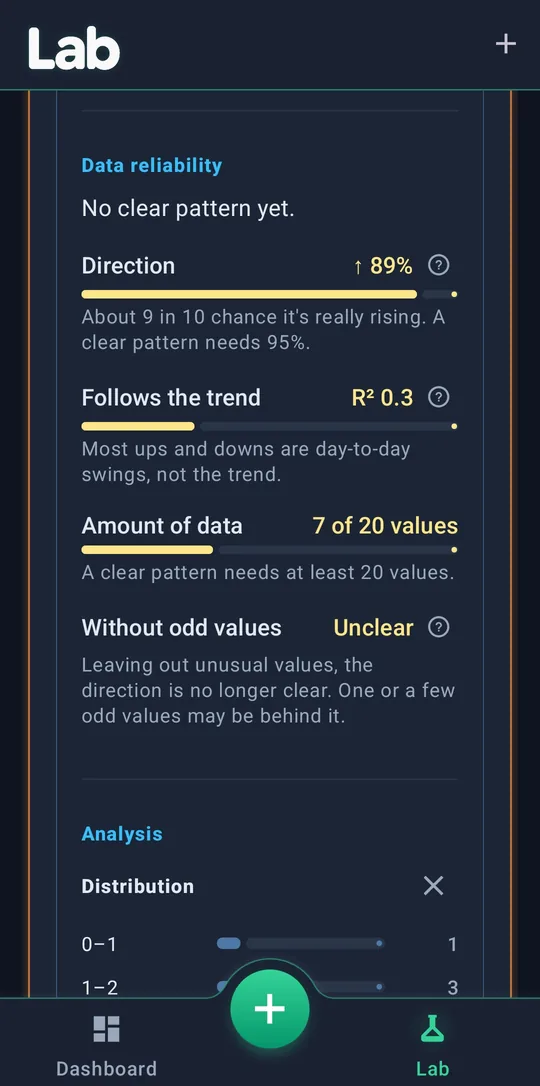
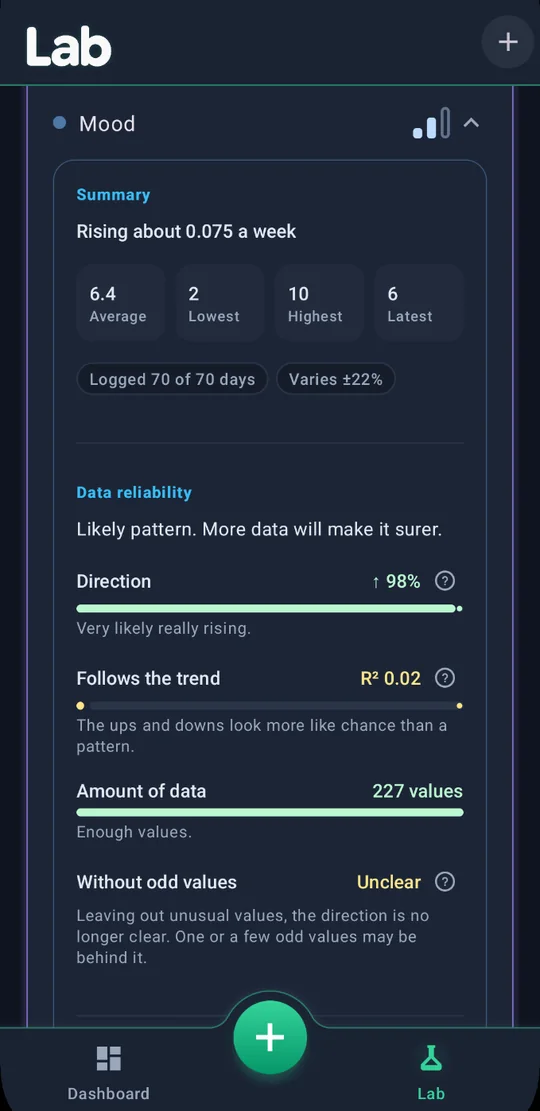
fix screen shots

diff --git a/index.html b/index.html
@@ -31,18 +31,17 @@
 
     <!-- 1. Hero: the differentiator first -->
     <section class="hero">
+      <img class="icon" src="images/icon-512.png" alt="" width="104" height="104">
       <img class="wordmark light" src="images/wordmark-light.png" alt="ArbiTracker" width="700" height="101">
       <img class="wordmark dark" src="images/wordmark-dark.png" alt="ArbiTracker" width="700" height="101">
 
       <h1>Track anything.<br><span class="accent">Compare everything.</span></h1>
 
-      <p class="rotator">Like <span class="example" id="example">'sleep'</span></p>
-
       <p class="purpose"><strong>Free.</strong> No agenda. No account. No servers.</p>
 
       <div class="buttons">
-        <!-- Until launch: the Play line is a label, the button asks to be told. Swap for the Play badge/link on launch day. -->
-        <a class="button play" href="mailto:contact@arbitracker.app?subject=Tell%20me%20when%20ArbiTracker%20is%20out">Tell me when it's out</a>
+        <!-- Until launch: no Play button, only the label below. On launch day add the Google Play badge/link here. -->
+        <a class="button play" href="#demo">Try it here ↓</a>
         <a class="button guide" href="guide.html">Read the guide →</a>
       </div>
       <p class="soon">Coming soon to Google Play</p>
@@ -84,7 +83,7 @@
     </section>
 
     <!-- 3. The demo: setting up a measurement is the thing to grasp. Drawn like the app (script.js). -->
-    <section>
+    <section id="demo">
       <h2 class="section-title">Set up anything in a minute</h2>
       <p class="section-lead">List what you write down each time. The app makes the form. Try it.</p>
 
@@ -144,8 +143,8 @@
           </ul>
 
           <div class="shots two">
-            <img class="shot" src="images/record.webp" alt="Entering an observation: pick the question type, flip Correct, save" width="540" height="1086" loading="lazy">
-            <img class="shot" src="images/group.webp" alt="Group mode: every exercise of 'Weightlifting' on one screen, each with its own entry card" width="540" height="1086" loading="lazy">
+            <img class="shot" src="images/record.webp" alt="Entering an observation: tap a mood from 1 to 10, pick where you are, save" width="540" height="1111" loading="lazy">
+            <img class="shot" src="images/group.webp" alt="Group mode: every plant in 'Houseplants' on one screen, each with its own entry card" width="540" height="1111" loading="lazy">
           </div>
 
           <details class="more">
@@ -169,8 +168,8 @@
           </ul>
 
           <div class="shots two">
-            <img class="shot" src="images/lab-chart.webp" alt="A Lab card: a bar chart per weekday" width="540" height="1086" loading="lazy">
-            <img class="shot" src="images/lab-reliability.webp" alt="Data reliability: direction, trend, amount of data and odd values, each with a plain explanation" width="540" height="1086" loading="lazy">
+            <img class="shot" src="images/lab-chart.webp" alt="A Lab card: correct and wrong answers per trivia subject" width="540" height="1111" loading="lazy">
+            <img class="shot" src="images/lab-reliability.webp" alt="Data reliability: direction, trend, amount of data and odd values, each with a plain explanation" width="540" height="1111" loading="lazy">
           </div>
 
           <details class="more">
@@ -202,14 +201,14 @@
           <div class="emoji">📌</div>
           <h3>Your dashboard</h3>
           <p>Pin whatever has your interest right now: things you track and charts.</p>
-          <img class="shot small" src="images/dashboard.webp" alt="The dashboard with a pinned chart and nodes" width="540" height="1086" loading="lazy">
+          <img class="shot small" src="images/dashboard.webp" alt="The dashboard in light mode with goals and nodes" width="540" height="1111" loading="lazy">
         </div>
 
         <div class="card">
           <div class="emoji">🎯</div>
           <h3>Goals</h3>
           <p>Aim for '8 hours of sleep', or simply better than usual.</p>
-          <img class="shot small" src="images/goals.webp" alt="Goals on the dashboard with progress rings and a streak" width="540" height="1086" loading="lazy">
+          <img class="shot small" src="images/goals.webp" alt="Goals on the dashboard: progress rings and a 10-week streak" width="540" height="1111" loading="lazy">
         </div>
 
         <div class="card">
@@ -240,7 +239,7 @@
 
     <!-- 7. Closing -->
     <section class="closing">
-      <h2>What will you track?</h2>
+      <h2>What will you arbitrack?</h2>
 
       <div class="examples">
         <span>'sleep'</span>
@@ -254,16 +253,50 @@
       </div>
 
       <div class="buttons" style="margin-top: 26px">
-        <a class="button play" href="mailto:contact@arbitracker.app?subject=Tell%20me%20when%20ArbiTracker%20is%20out">Tell me when it's out</a>
         <a class="button guide" href="guide.html">Read the guide →</a>
       </div>
+      <p class="soon">Coming soon to Google Play</p>
+    </section>
+
+    <!-- 7b. The future: ideas, not promises -->
+    <section class="future">
+      <h2 class="section-title">What the future might bring</h2>
+      <p class="section-lead">Ideas on the drawing board. You decide which come first.</p>
+
+      <div class="extras">
+        <div class="card">
+          <div class="emoji">🌳</div>
+          <h3>Tracking hub</h3>
+          <p>Share your setup with others, and start from theirs: 'chess openings', 'sourdough lab', 'birding year'.</p>
+        </div>
+
+        <div class="card">
+          <div class="emoji">🔭</div>
+          <h3>Community findings</h3>
+          <p>Show off what you discovered, and see what others found in theirs.</p>
+        </div>
+
+        <div class="card">
+          <div class="emoji">🧪</div>
+          <h3>Your own experiments</h3>
+          <p>Test an idea properly: the app plans the on and off days and tells you if it worked.</p>
+        </div>
+
+        <div class="card">
+          <div class="emoji">✨</div>
+          <h3>Automatic insights</h3>
+          <p>The app finds the strongest patterns for you, only when they hold up.</p>
+        </div>
+      </div>
+
+      <p class="future-note">Sharing will always be your choice: nothing leaves your phone unless you send it.</p>
     </section>
 
     <!-- 8. Contact: send ideas and use cases -->
     <section class="contact" id="contact">
       <div class="contact-card">
         <div class="contact-emoji">💌</div>
-        <h2>I want to hear from you</h2>
+        <h2>Help shape what comes next</h2>
         <p>ArbiTracker is built by one person, and it grows from the people who use it. What do you track? What did you discover? What should the app do next? Every idea, use case and wild wish is welcome, and I read every mail.</p>
 
         <a class="button play" href="mailto:contact@arbitracker.app?subject=My%20ArbiTracker%20idea">Share your idea</a>

diff --git a/script.js b/script.js
@@ -1,35 +1,7 @@
-// ArbiTracker site: the rotating example, the app demo, screenshots and the idea button.
+// ArbiTracker site: the compare teaser, the app demo, screenshots and the idea button.
 // Own code only: no outside scripts, no tracking (see privacy.html).
 
 const reduceMotion = window.matchMedia("(prefers-reduced-motion: reduce)").matches;
-
-// ---------- Rotating example in the hero ----------
-const examples = [
-  "'sleep'",
-  "'bird sightings'",
-  "'mood at random moments'",
-  "'every time the neighbour's cat visits'",
-  "'guitar practice'",
-  "'sourdough rise'",
-  "'visits to grandma'",
-  "'trivial pursuit answers'"
-];
-
-const exampleEl = document.getElementById("example");
-
-if (exampleEl && !reduceMotion) {
-  let index = 0;
-
-  setInterval(() => {
-    exampleEl.classList.add("out");
-
-    setTimeout(() => {
-      index = (index + 1) % examples.length;
-      exampleEl.textContent = examples[index];
-      exampleEl.classList.remove("out");
-    }, 400);
-  }, 4000);
-}
 
 // ---------- Compare teaser: funny pairs ----------
 const pairs = [

diff --git a/style.css b/style.css
@@ -179,7 +179,7 @@ h2.section-title {
 /* ---------- Purpose line + versus ---------- */
 .purpose {
   max-width: 560px;
-  margin: -10px auto 26px;
+  margin: 6px auto 26px;
   font-size: 19px;
   color: var(--muted);
 }
@@ -745,6 +745,8 @@ details.more li { margin: 4px 0; }
   color: var(--muted);
   font-size: 15px;
 }
+
+.future-note { text-align: center; color: var(--muted); font-size: 15px; margin: 16px 0 0; }
 
 /* ---------- Contact ---------- */
 .float-idea {

diff --git a/CLAUDE.md b/CLAUDE.md
@@ -3,7 +3,7 @@
 Static site for **https://arbitracker.app**, served by GitHub Pages from `main` / root of this (public) repo. The app itself lives in `../MetricTree` (its own CLAUDE.md); this repo holds only the website.
 
 ## Files
-- `index.html`: the landing page: hero (headline = the differentiator, "Free. No agenda…", until launch "Tell me when it's out" + "Coming soon to Google Play" as a label) → "Not another habit app" (vs typical trackers, no competitor names, claims kept fair) → the app demo → Collect / Understand with real screenshots (details behind "More") → extras → Free + private → closing → contact (also top bar, floating button, footer). Each point is made once; don't repeat a claim across sections. Open Graph tags + `images/og-image.png` for link previews.
+- `index.html`: the landing page: hero (headline = the differentiator, "Free. No agenda…", until launch "Try it here ↓" (to the demo) + "Coming soon to Google Play" as a plain label; on launch day the Play badge/link goes in) → "Not another habit app" (vs typical trackers, no competitor names, claims kept fair) → the app demo → Collect / Understand with real screenshots (details behind "More") → extras → Free + private → closing → contact (also top bar, floating button, footer). Each point is made once; don't repeat a claim across sections. Open Graph tags + `images/og-image.png` for link previews.
 - **Free promise (public):** collecting, organising, reminders, random check-ins and export are "free, and always will be"; analysis tools are "free too" (no "always": Pro is undecided). Never change the first part.
 - `script.js`: rotating example, tabs, and the **app demo** ("Setup measurement(s)" next to the node's entry card, rebuilt live). It copies the app's look (`themes.xml` colours, `ObservationFormView` rows, type names Number/Boolean/Text/Timestamp/Category): when the app's entry card or setup changes, update the demo.
 - `guide.html`: the step-by-step guide (expandable steps). Names of buttons and menus must match the app.
